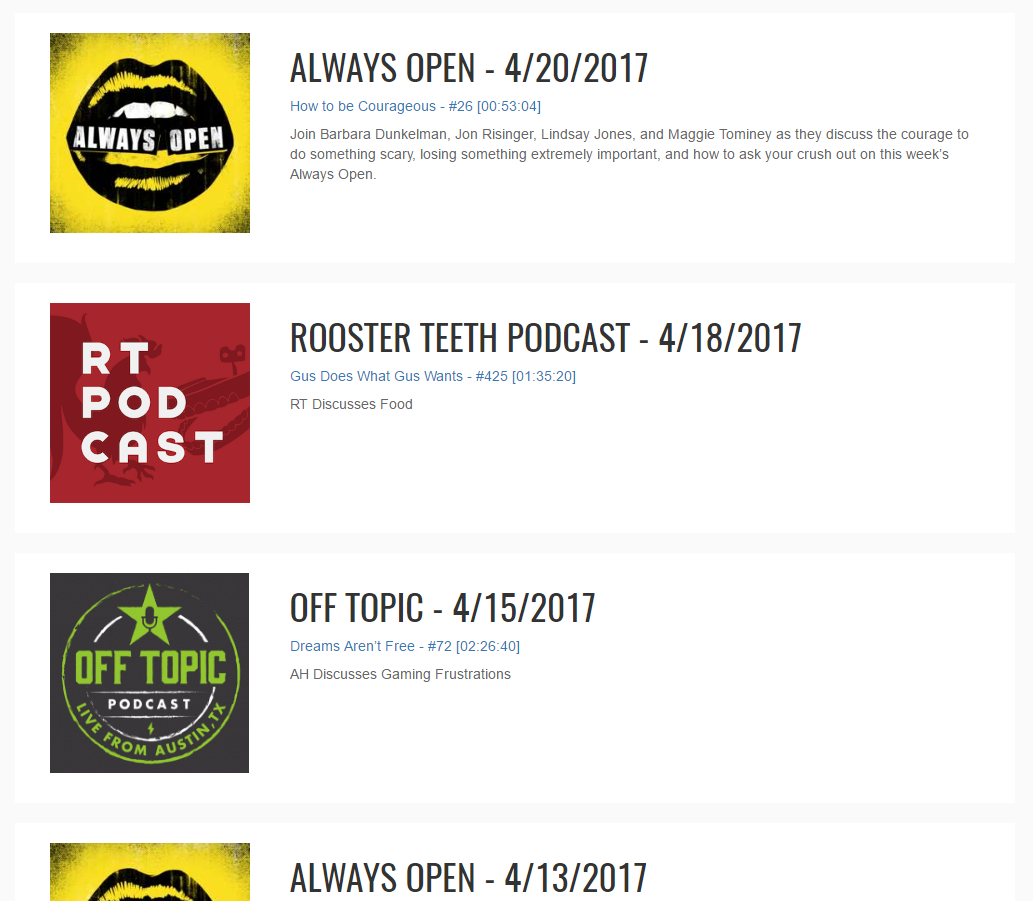
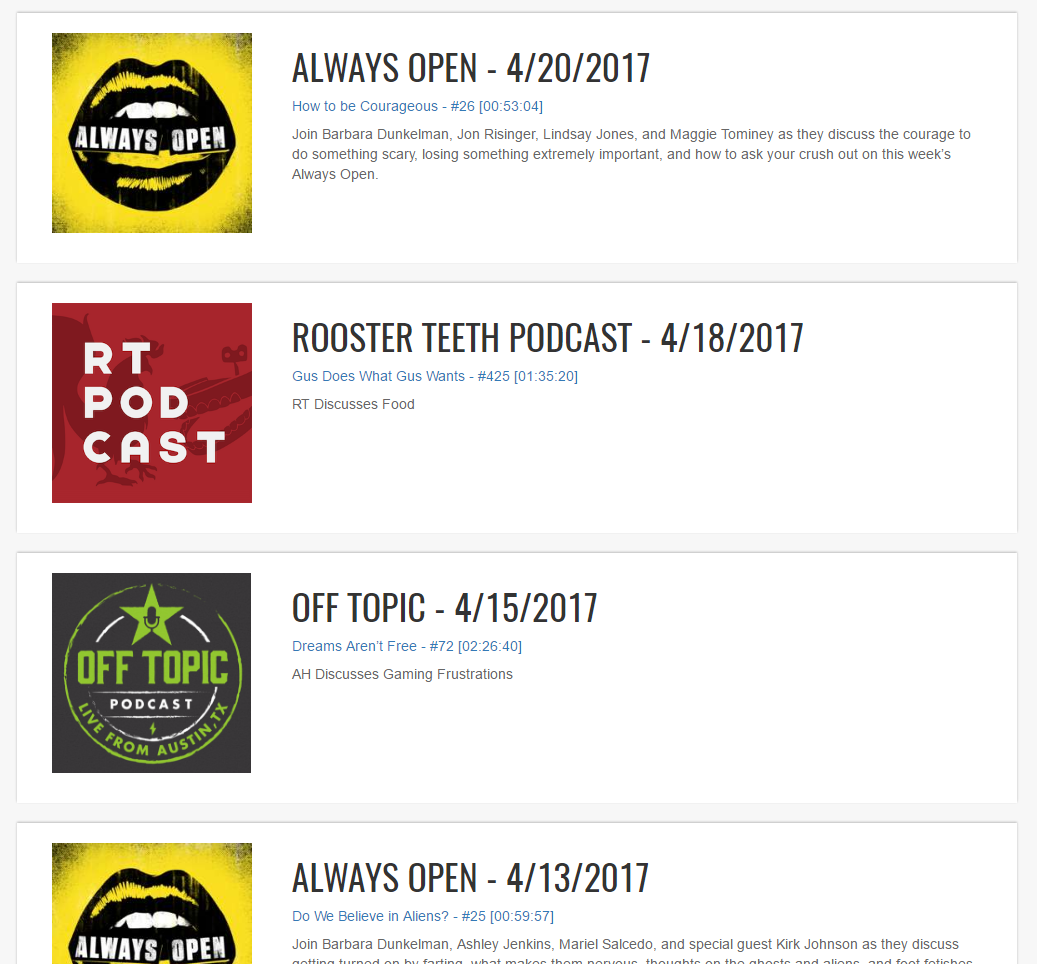
Css Updates

diff --git a/app/templates/base.html b/app/templates/base.html
@@ -8,7 +8,7 @@
     <style>
         body {
           color: rgb(85,85,85);
-          background-color: rgb(250, 250, 250);
+          background-color: rgb(247, 247, 247);
           font-family: 'Open Sans', sans-serif;
           padding-top: 50px;
           padding-bottom: 70px;
@@ -20,6 +20,7 @@
           padding: 20px;
           max-width: 1000px;
           height: 250px;
+          box-shadow: 0 -1px 2px 0 rgba(53, 53, 53, 0.3);
         }
 
         .content h1 {
